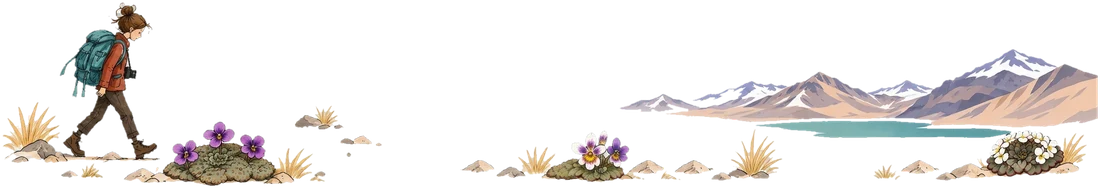
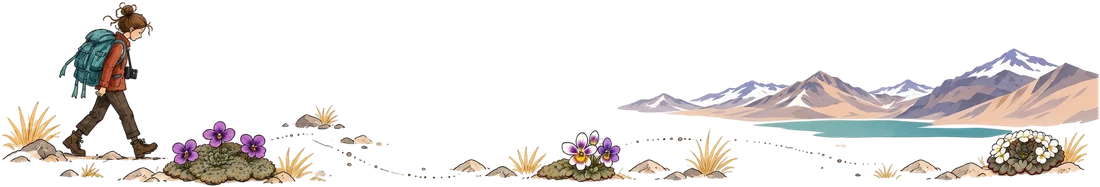
Frise à la largeur du contenu de l'en-tête (PNG transparent)
Claude-Session: https://claude.ai/code/session_01USoyCeZaiUfZ9GAaS3HKcA

diff --git a/index.html b/index.html
@@ -50,12 +50,12 @@
   /* Bannière illustrée — dans le bandeau fixe, donc la carte se cale dessous automatiquement.
      Visible uniquement sur l'onglet Carte, tant qu'elle n'a pas été refermée. */
   .banner {
-    position: relative; flex: 0 0 calc(100% + 32px); box-sizing: border-box; order: 10;
-    margin: 4px -16px -8px; padding: 0;
+    position: relative; flex: 0 0 100%; box-sizing: border-box; order: 10;
+    margin: 4px 0 -8px; padding: 0;
     
   }
   .banner[hidden] { display: none; }
-  .banner img { display: block; width: min(100%, 900px); height: auto; margin: 0 auto; }
+  .banner img { display: block; width: 100%; height: auto; margin: 0; }
   .banner-close {
     position: absolute; top: 6px; right: 8px; width: 28px; height: 28px; border-radius: 50%;
     border: none; background: rgba(255,255,255,0.12); color: #EFE9D8; cursor: pointer;
